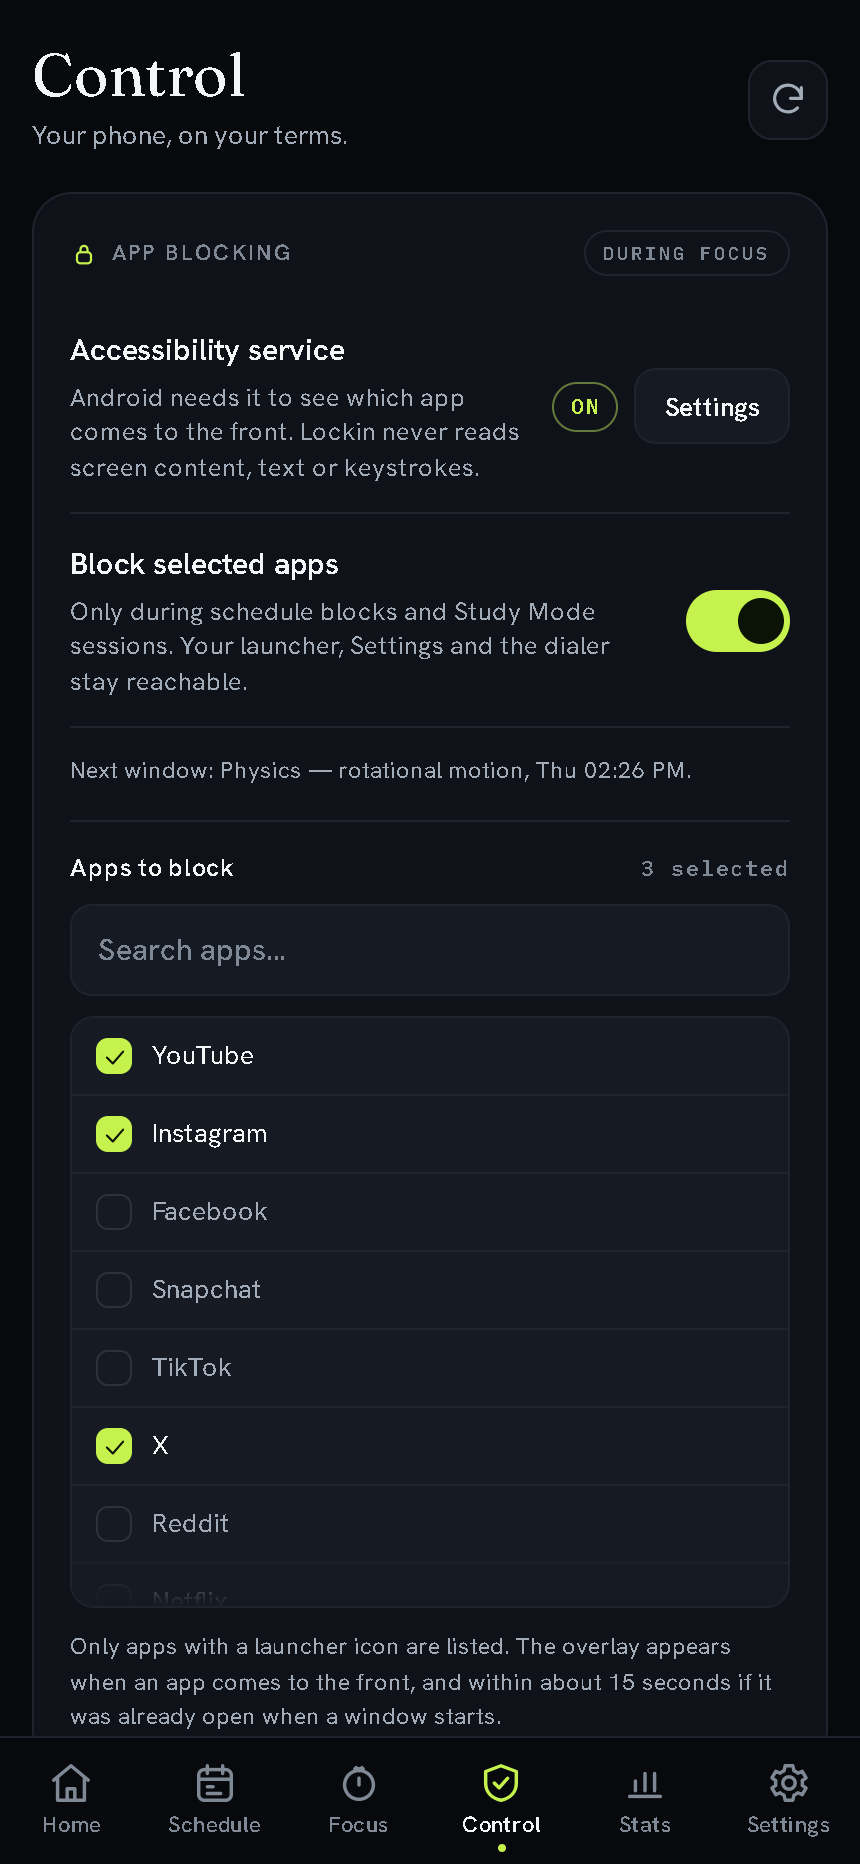
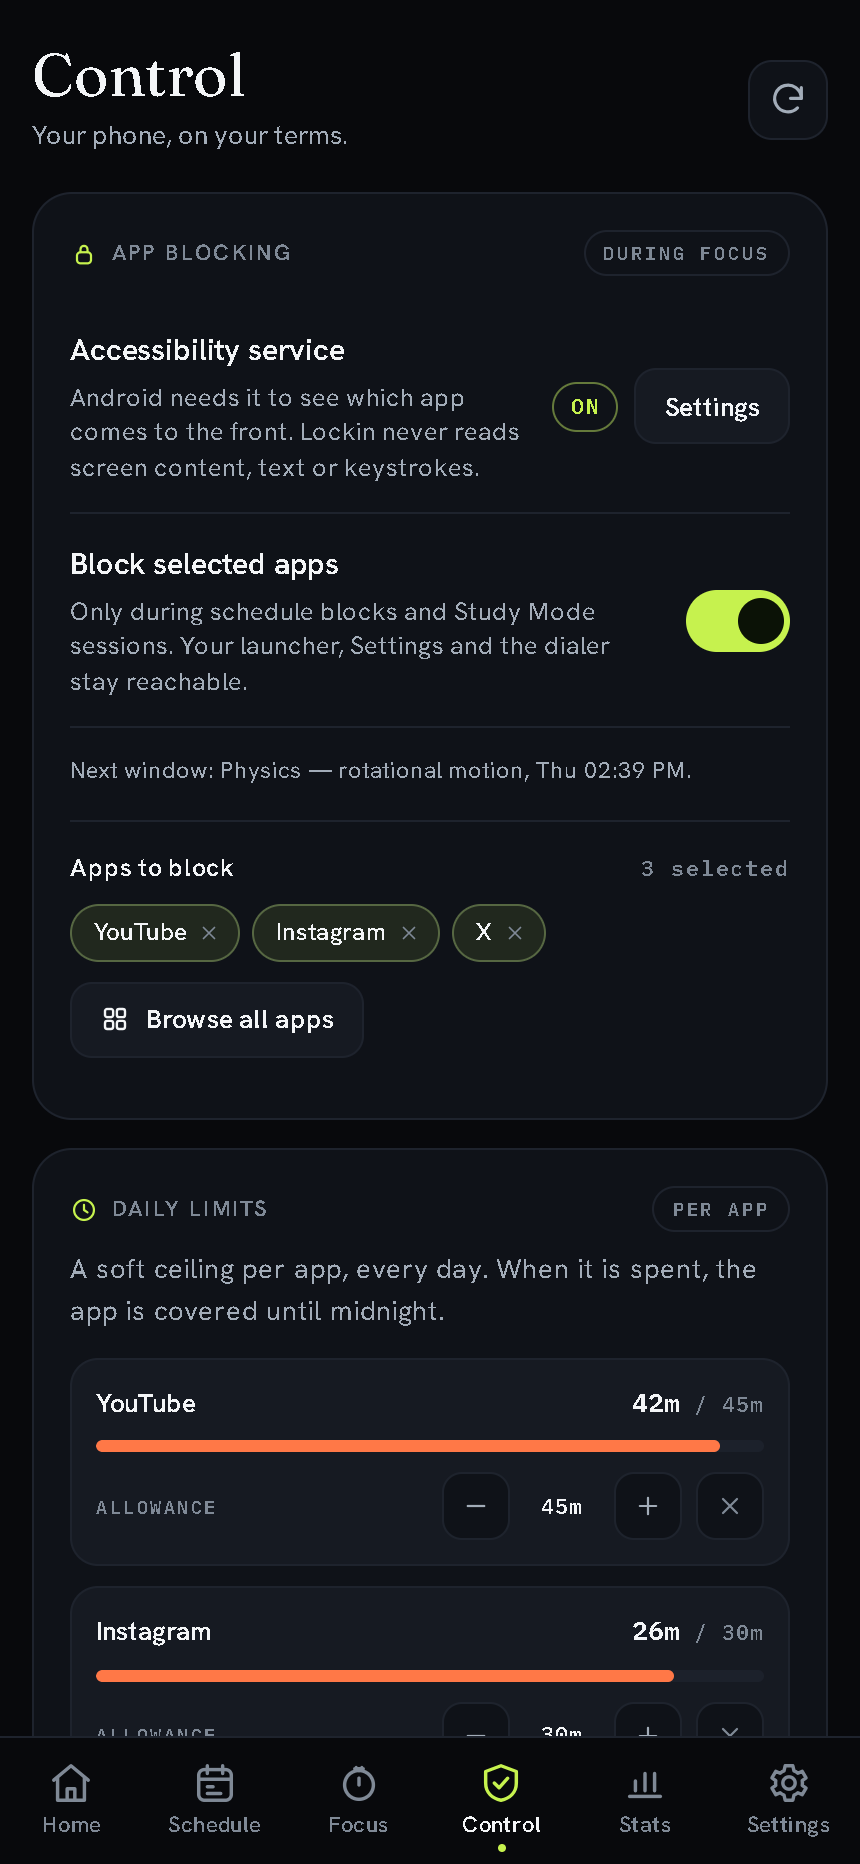
Collapse the Control app picker into removable chips (plan 7)

diff --git a/app/assets/js/views/control.js b/app/assets/js/views/control.js
@@ -258,8 +258,57 @@ function blockingCard() {
     autocomplete: 'off', spellcheck: 'false',
     oninput: () => { query = search.value.trim().toLowerCase(); renderApps(); },
   });
-  const list = el('div', { class: 'app-list', role: 'group', 'aria-label': 'Apps to block' });
+  const list = el('div', { class: 'app-list', role: 'group', 'aria-label': 'Every app on this phone' });
   const listWrap = el('div', { class: 'app-list-wrap' }, list);
+
+  /* The full picker is a long scrolling list. Keep it closed by default: the
+     chips show what is already blocked, and presets, limits and strict mode
+     stay above the fold until someone asks to browse. */
+  const picked = el('div', { class: 'app-picked', role: 'group', 'aria-label': 'Apps to block' });
+  const browseLabel = el('span', {}, 'Browse all apps');
+  const browse = el('button', {
+    class: 'btn btn-subtle btn-sm app-browse', type: 'button',
+    'aria-expanded': 'false', 'aria-controls': 'blocking-app-list',
+  }, svg('grid', 15), browseLabel);
+  const pickerBody = el('div', {
+    class: 'blocking-picker-body', id: 'blocking-app-list', hidden: true,
+  }, search, listWrap, el('p', { class: 'tiny' },
+    'Only apps with a launcher icon are listed. The overlay appears when an app comes to the front, and within about 15 seconds if it was already open when a window starts.'));
+
+  browse.onclick = () => {
+    const open = pickerBody.hidden;
+    pickerBody.hidden = !open;
+    browse.setAttribute('aria-expanded', String(open));
+    browseLabel.textContent = open ? 'Hide app list' : 'Browse all apps';
+    if (open) search.focus({ preventScroll: true });
+  };
+
+  function renderPicked() {
+    picked.replaceChildren();
+    if (!device) {
+      picked.append(el('p', { class: 'app-picked-empty' }, 'Reading blocking state…'));
+      return;
+    }
+    if (!device.packages.length) {
+      picked.append(el('p', { class: 'app-picked-empty' },
+        'No apps picked yet — nothing is blocked.'));
+      return;
+    }
+    const names = new Map(appList.map((app) => [app.package, app.label]));
+    for (const pkg of device.packages) {
+      const label = names.get(pkg) || pkg.split('.').pop();
+      picked.append(el('button', {
+        class: 'app-pick-chip', type: 'button', title: pkg,
+        'aria-label': `Stop blocking ${label}`,
+        onclick: () => {
+          if (!device) return;
+          device = { ...device, packages: device.packages.filter((p) => p !== pkg) };
+          paintAll();
+          persistBlocking();
+        },
+      }, el('span', {}, label), svg('x', 11)));
+    }
+  }
 
   const syncFade = () => {
     listWrap.classList.toggle('more',
@@ -359,6 +408,7 @@ function blockingCard() {
     }
     summary.textContent = text;
     summary.classList.toggle('warn', warn);
+    renderPicked();
     renderApps();
   }
 
@@ -376,10 +426,9 @@ function blockingCard() {
     el('div', { class: 'blocking-picker' },
       el('div', { class: 'blocking-picker-head' },
         el('b', {}, 'Apps to block'), count),
-      search,
-      listWrap,
-      el('p', { class: 'tiny' },
-        'Only apps with a launcher icon are listed. The overlay appears when an app comes to the front, and within about 15 seconds if it was already open when a window starts.')));
+      picked,
+      browse,
+      pickerBody));
 
   return { node, paint };
 }

diff --git a/app/assets/css/app.css b/app/assets/css/app.css
@@ -2846,6 +2846,36 @@ body[data-mode='onboard'] #view {
   color: var(--tx-3);
   white-space: nowrap;
 }
+/* Selected apps stay visible as removable chips; the long list hides behind
+   one button so the rest of Control is not pushed down the page. */
+.app-picked {
+  display: flex;
+  flex-wrap: wrap;
+  gap: 6px;
+  margin: 0 0 10px;
+}
+.app-picked-empty { margin: 0 0 10px; font-size: 12px; color: var(--tx-3); }
+.app-pick-chip {
+  display: inline-flex;
+  align-items: center;
+  gap: 6px;
+  max-width: 100%;
+  padding: 6px 9px 6px 11px;
+  border: 1px solid color-mix(in srgb, var(--acc) 28%, var(--line-2));
+  border-radius: 99px;
+  background: color-mix(in srgb, var(--acc) 10%, transparent);
+  color: var(--tx);
+  font: 500 12px/1.2 var(--font-sans);
+  cursor: pointer;
+  transition: border-color 140ms var(--ease), background 140ms var(--ease);
+}
+.app-pick-chip span { overflow: hidden; text-overflow: ellipsis; white-space: nowrap; }
+.app-pick-chip svg { flex: none; color: var(--tx-3); }
+.app-pick-chip:hover { border-color: var(--acc); }
+.app-pick-chip:hover svg { color: var(--tx); }
+.app-browse { margin-bottom: 12px; }
+.blocking-picker-body[hidden] { display: none; }
+.blocking-picker-body .tiny { margin: 10px 0 0; }
 .app-list-wrap { position: relative; margin-top: 10px; }
 .app-list-wrap::after {
   content: '';

diff --git a/docs/releases/v1.11.0.md b/docs/releases/v1.11.0.md
@@ -10,7 +10,8 @@ not just whole sites.
 
 ## What changed
 
-- **Control** — a master blocking switch, a searchable app picker, one-tap
+- **Control** — a master blocking switch, a searchable app picker that keeps
+  your blocked apps as removable chips with the full list one tap away, one-tap
   distraction presets (Short videos / Feeds & chat / Streaming), per-app daily
   allowances with live usage bars, and the strict kiosk, all on one screen.
 - **Screen time moved to Settings**, beside usage access. Today's foreground
@@ -38,7 +39,7 @@ not just whole sites.
 
 | Control | Study Mode |
 |---|---|
-| <img src="https://raw.githubusercontent.com/rudra-th/Lockin/v1.11.0/docs/screenshots/control.png" width="260" alt="Control: accessibility service status, the blocking switch and the app picker"> | <img src="https://raw.githubusercontent.com/rudra-th/Lockin/v1.11.0/docs/screenshots/focus.png" width="260" alt="Study Mode: the running room with its clock ring, daily-target meter, attached tasks, strict kiosk dock and quit control"> |
+| <img src="https://raw.githubusercontent.com/rudra-th/Lockin/v1.11.0/docs/screenshots/control.png" width="260" alt="Control: accessibility service status, the blocking switch and the apps chosen to block"> | <img src="https://raw.githubusercontent.com/rudra-th/Lockin/v1.11.0/docs/screenshots/focus.png" width="260" alt="Study Mode: the running room with its clock ring, daily-target meter, attached tasks, strict kiosk dock and quit control"> |
 | **Home** | **Stats** |
 | <img src="https://raw.githubusercontent.com/rudra-th/Lockin/v1.11.0/docs/screenshots/home.png" width="260" alt="Home: days left, today's focus and the next block"> | <img src="https://raw.githubusercontent.com/rudra-th/Lockin/v1.11.0/docs/screenshots/stats.png" width="260" alt="Stats: goal ring, all-time focus, 7-day bars and clean-day heatmap"> |
 

diff --git a/README.md b/README.md
@@ -54,7 +54,7 @@ The web app is the source of truth for a study session. The extension is deliber
 |---|---|
 | <img src="docs/screenshots/home.png" width="260" alt="Home: days left, today's focus and the next block"> | <img src="docs/screenshots/schedule.png" width="260" alt="Schedule: next block hero, 24-hour ring, today's blocks and tasks"> |
 | **Study Mode** | **Control** |
-| <img src="docs/screenshots/focus.png" width="260" alt="Study Mode: the running room with its clock ring, daily-target meter, attached tasks, strict kiosk dock and quit control"> | <img src="docs/screenshots/control.png" width="260" alt="Control: accessibility service status, the blocking switch and the app picker"> |
+| <img src="docs/screenshots/focus.png" width="260" alt="Study Mode: the running room with its clock ring, daily-target meter, attached tasks, strict kiosk dock and quit control"> | <img src="docs/screenshots/control.png" width="260" alt="Control: accessibility service status, the blocking switch and the apps chosen to block"> |
 | **Stats** | **Settings** |
 | <img src="docs/screenshots/stats.png" width="260" alt="Stats: goal ring, all-time focus, 7-day bars and clean-day heatmap"> | <img src="docs/screenshots/settings.png" width="260" alt="Settings: enforcement, earned exit, goals and schedule alarms"> |
 

diff --git a/CHANGELOG.md b/CHANGELOG.md
@@ -12,6 +12,9 @@ the Android shell follows once it ships.
   distraction presets across Short videos / Feeds & chat / Streaming, per-app
   daily limits with live usage bars, and the strict kiosk. Settings keeps the
   permissions and a one-card pointer.
+- The app picker opens as **removable chips of what is blocked**, with the full
+  searchable list one tap behind **Browse all apps**, so presets, limits and
+  strict mode are visible without scrolling past every installed app.
 - **Screen time moved to Settings.** The full card shows today's foreground
   time, top apps, a 7-day rail, a refresh action and an honest usage-access
   empty state. It left Control, the compact Stats card and Home, so there is one

diff --git a/docs/superpowers/plans/2026-11-04-control-center-and-strict-mode.md b/docs/superpowers/plans/2026-11-04-control-center-and-strict-mode.md
@@ -26,6 +26,9 @@ needs.
       `/control` route.
 - [x] Control owns app blocking, distraction presets, per-app limits and the
       strict kiosk; Settings keeps a one-card pointer.
+- [x] The app picker stays collapsed to removable chips with **Browse all
+      apps** opening the searchable list, so limits and strict mode sit above
+      the fold.
 - [x] Screen time card moved from Control into Settings: total foreground time,
       top apps with bars, 7-day rail, refresh, usage-access CTA.
 - [x] Removed the compact Stats screen-time card and the Home "where the time
